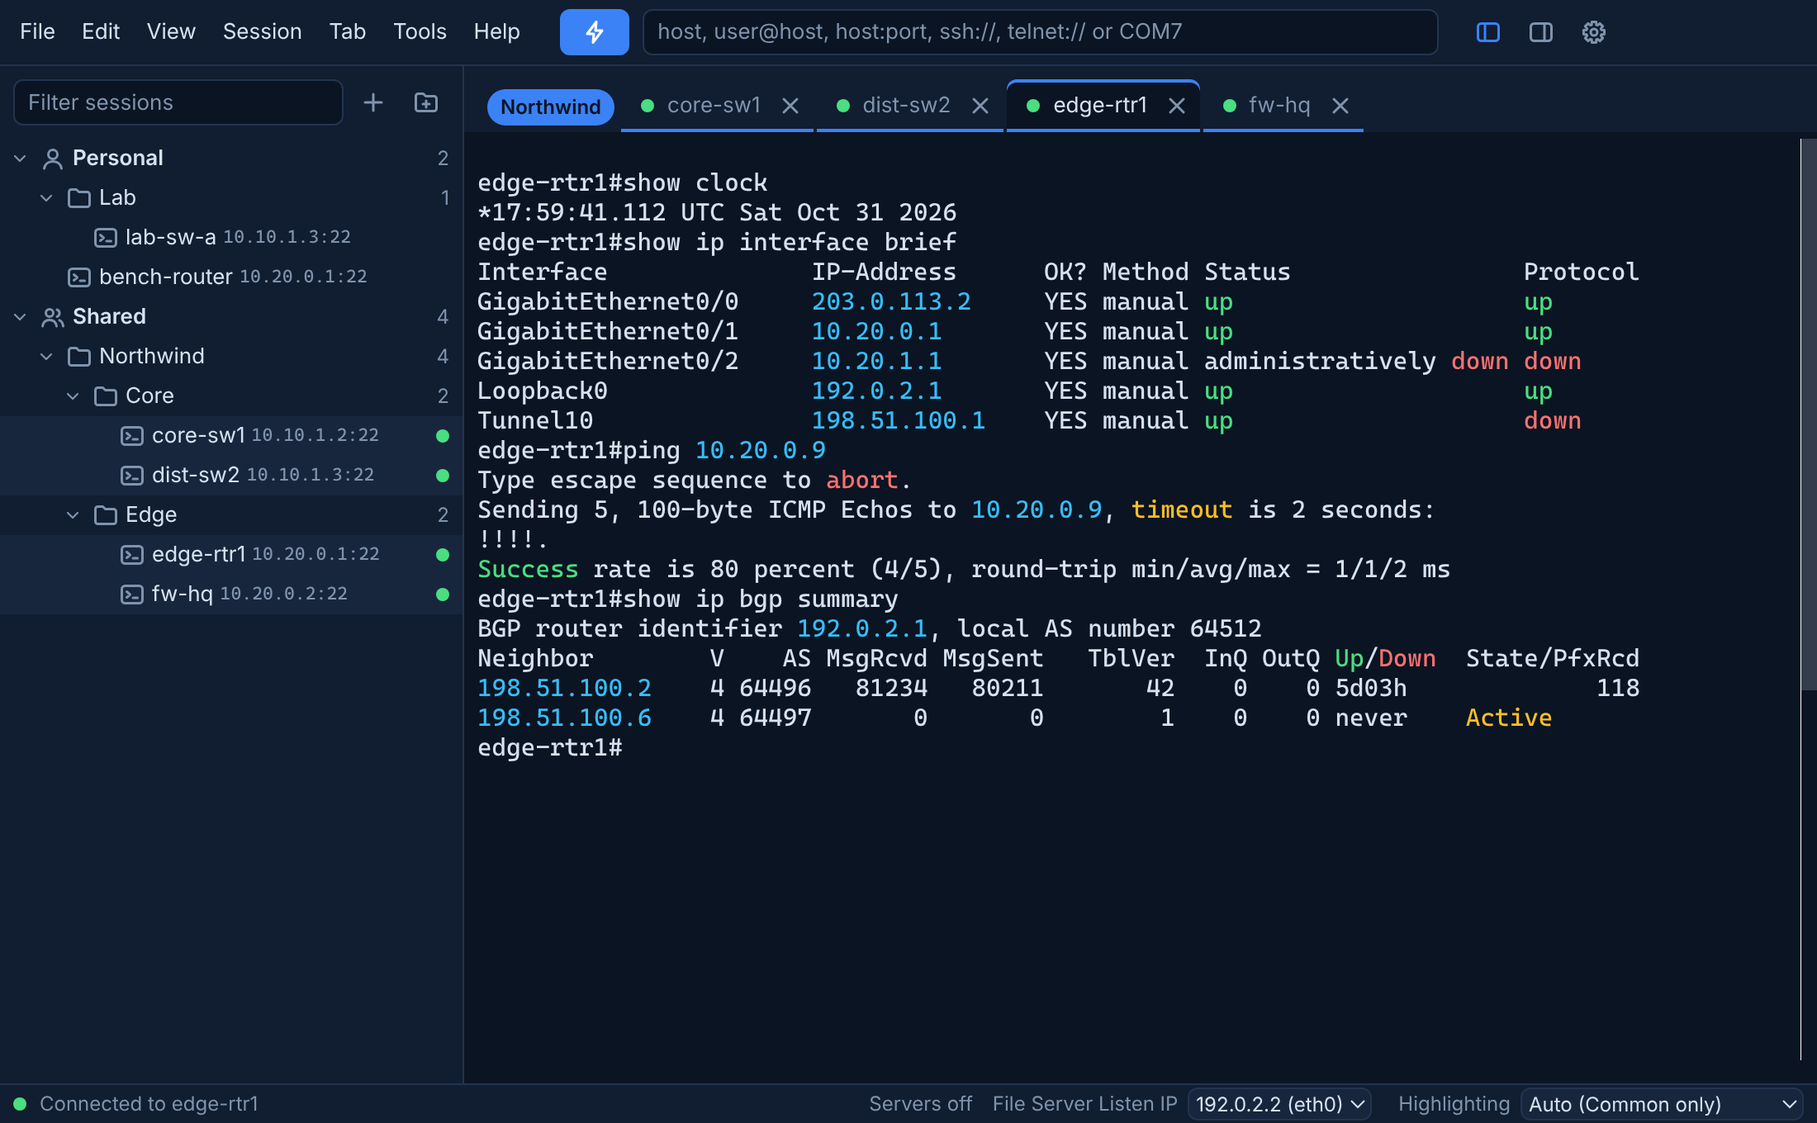
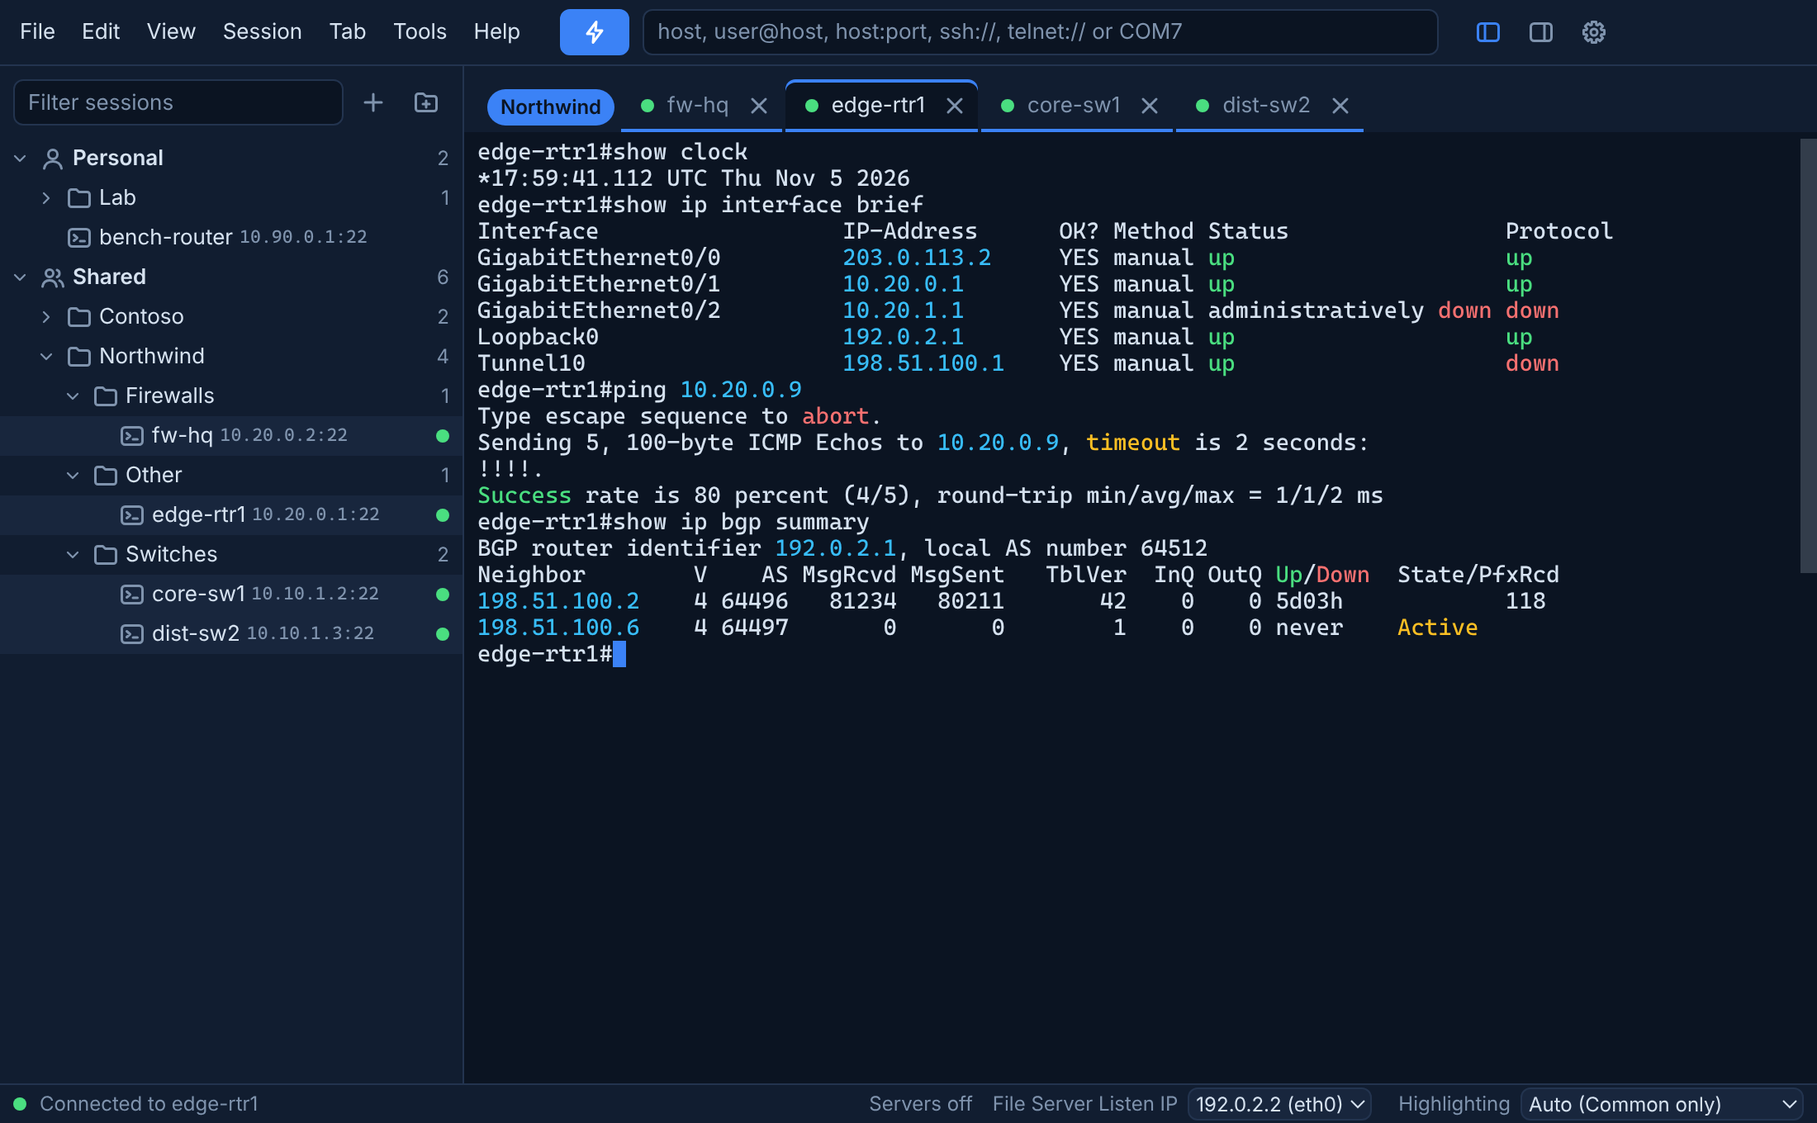
Refresh README and screenshots for split panes, jump host, Shared layout, duplicate checks, prompt-following highlighting and appearance options
Claude-Session: https://claude.ai/code/session_01JJwPdBJXe9Dvv6k2Fn5pU2

diff --git a/README.md b/README.md
@@ -1,18 +1,18 @@
 # ConnSmith
 
-Terminal client for network engineers on Windows 11 (64-bit). Tabbed SSH, Telnet and serial consoles, a shared session library, highlighted device output, command broadcast across tabs, and built-in TFTP, FTP and SFTP/SCP servers.
+Terminal client for network engineers on Windows 11 (64-bit). Tabbed SSH, Telnet and serial consoles, a shared session library, highlighted device output, split panes, a command window that sends to several tabs at once, and built-in TFTP, FTP and SFTP/SCP servers.
 
 <img src="docs/images/hero.png" alt="ConnSmith with four device tabs in a group, the session tree on the left and highlighted CLI output" width="900">
 
 This repository publishes the installers only. Download them from the [Releases page](https://github.com/CautiousCapsLock/connsmith-releases/releases/latest).
 
-**Status:** in testing. Features marked **(0.1.5)** are built on the development branch and arrive in the next release.
+**Status:** in testing. Features marked **(next release)** are in development builds and arrive in the next release. Everything else is in the [latest release](https://github.com/CautiousCapsLock/connsmith-releases/releases/latest).
 
 ## Contents
 
 - [Install](#install) and [Updates](#updates)
 - [Getting started](#getting-started)
-- Core features: [SSH](#ssh-modern-and-legacy-profiles), [Serial](#serial-console), [Session tree and Shared sessions](#session-tree-and-shared-sessions), [Tabs and tab groups](#tabs-and-tab-groups), [Command window](#command-window-015), [Highlight rules](#highlight-rules), [Find](#find), [File servers](#file-servers-tftp-ftp-and-sftpscp-015), [SecureCRT import](#securecrt-import), [SSH keys](#ssh-keys-including-putty-ppk)
+- Core features: [SSH](#ssh-modern-and-legacy-profiles), [Jump host](#jump-host-next-release), [Serial](#serial-console), [Session tree and Shared sessions](#session-tree-and-shared-sessions), [Tabs, tab groups and split panes](#tabs-tab-groups-and-split-panes), [Command window](#command-window), [Highlight rules](#highlight-rules), [Terminal appearance](#terminal-appearance), [Find](#find), [File servers](#file-servers-tftp-ftp-and-sftpscp), [SecureCRT import](#securecrt-import), [SSH keys](#ssh-keys-including-putty-ppk)
 
 ---
 
@@ -48,7 +48,7 @@ A welcome window asks for the folder that holds saved sessions (the Personal sto
 Two optional settings follow. Both can be changed later in **Settings**.
 
 - **App password** (Settings > Security). Required at every start, before any session loads. It protects passwords saved in sessions and makes them usable on other PCs that share the same app password. Without it, saved passwords are readable on the PC that saved them only.
-- **Windows Hello.** With an app password set, Windows Hello (fingerprint, face or PIN) can unlock ConnSmith instead of the typed password.
+- **Windows Hello.** With an app password set, **Settings > Security** can turn on unlock with Windows Hello (fingerprint, face or PIN) instead of the typed password. Hello is built into ConnSmith and starts no scripts. The setting is per PC, so a second PC needs the app password typed once before Hello is turned on there. Uninstalling ConnSmith switches Hello off, even if the settings are kept.
 
 ### Connect to a device
 
@@ -80,11 +80,23 @@ SSH-2 with password, keyboard-interactive and public key authentication. Each se
 - **Modern** (default): current algorithms only.
 - **Legacy**: adds `ssh-rsa`, CBC and 3DES ciphers, SHA-1 MACs and `diffie-hellman-group14-sha1`, which older switches require.
 
-When a Modern connection fails because the device offers only older algorithms, ConnSmith lists what the device offers and shows **Switch to Legacy and reconnect**. The button saves Legacy to the session and reconnects. Enter activates it.
+When a Modern connection fails because the device offers only older algorithms, ConnSmith lists what the device offers and shows a yellow **Switch to Legacy algorithms and reconnect** button. The button saves Legacy to the session and reconnects. Enter activates it. **What the device offers** expands the full list.
 
-<img src="docs/images/legacy-prompt.png" alt="The prompt: This device only offers diffie-hellman-group14-sha1 for key exchange, with a Switch to Legacy and reconnect button" width="900">
+<img src="docs/images/legacy-prompt.png" alt="The prompt: This device only offers diffie-hellman-group14-sha1 and diffie-hellman-group1-sha1 for key exchange, with a yellow Switch to Legacy algorithms and reconnect button" width="900">
 
-Also included: host key verification against a known-hosts file, keepalives, a **Reconnect** button after a dropped link, and the negotiated algorithms in the connection info panel (top right icon).
+Also included: host key verification against a known-hosts file, keepalives, a **Reconnect** button after a dropped link, and the negotiated algorithms in the connection info panel (top right icon). **(next release)** For a device whose host key is already saved, ConnSmith asks for that key type first, as OpenSSH does, so a device that has since gained a newer key type does not show a first-connection dialog.
+
+### Jump host (next release)
+
+**Edit session > Jump host** lists the saved SSH sessions. When one is chosen, ConnSmith logs in to it first, with its own saved password, key and settings, and opens the connection to the device through it. Use it for devices that are reachable only from a bastion or management host.
+
+<img src="docs/images/jump-host-edit.png" alt="Edit session with the Jump host drop-down set to bastion" width="520">
+
+- The host key and login questions of the jump host are titled **Jump host**. The connection info panel shows it on the **Via** line.
+- One hop only.
+- A Shared session can use only a Shared session as its jump host, and a session moves to Shared only once its jump host is there.
+
+<img src="docs/images/jump-host-info.png" alt="A connected tab with the connection info panel showing Via bastion" width="900">
 
 **Known limitation:** devices that offer only `diffie-hellman-group1-sha1` (for example older Cisco IOS releases) cannot connect. The tab reports this.
 
@@ -105,53 +117,114 @@ COM ports are scanned every 2 seconds. When a USB console adapter is plugged in,
 
 A single tree shows the Personal and Shared stores with their folders. The filter box searches name, host and folder. Sessions can be dragged between folders and between stores.
 
-<img src="docs/images/session-tree.png" alt="The session tree: Personal sessions, and Shared sessions grouped by client and category, with a green dot on each connected session" width="300">
+<img src="docs/images/session-tree.png" alt="The session tree: Personal sessions, and Shared sessions grouped by client, optional site and device type, with a green dot on each connected session" width="300">
 
-- **Status dots (0.1.5):** a saved session with an open tab shows a dot at the right of its row: green connected, amber connecting, red disconnected.
-- **Multi-connect:** Ctrl+click or Shift+click selects several sessions, and Enter opens each in its own tab. Host key and password prompts appear one after another.
-- **Shared store:** set the team folder in **Settings > Session stores**. Each user enters the same shared password once on their own PC. Shared sessions are organised by client and category.
-- **Move to Shared:** the right-click menu on a session or folder moves it to the Shared store after the share checks. A session that fails a check stays in Personal and the dialog gives the reason. **Session > Move many to Shared…** moves many sessions in one wizard.
+- **Status dots:** a saved session with an open tab shows a dot at the right of its row: green connected, amber connecting, red disconnected.
+- **Multi-connect:** Ctrl+click or Shift+click selects several sessions, and Enter opens each in its own tab. Host key and password prompts appear one after another. **(next release)** With several sessions selected, the right-click menu also offers **Move to Shared…** and **Delete N sessions…**. Delete lists the sessions and asks first.
+- **Collapse all (next release):** the right-click menu of every folder, and of the Personal and Shared rows, folds the tree. ConnSmith remembers which folders were open.
+- **Shared store:** set the team folder in **Settings > Session stores**. Each user enters the same shared password once on their own PC.
+- **Move to Shared:** the right-click menu on a session or folder moves it to the Shared store after the share checks. A session that fails a check stays in Personal and the dialog gives the reason. **Session > Move many to Shared…** moves many sessions in one wizard. **(next release)** The wizard's last step offers to delete the Personal folders the move left empty, with the tick box on.
 - **OneDrive:** the tree shows a warning when shared files are online-only placeholders. The folder must be set to **Always keep on this device** in File Explorer.
 
 <img src="docs/images/shared-store.png" alt="Settings, Session stores: the Personal and Shared folders and the Shared password" width="760">
 
-### Tabs and tab groups
+#### Shared folder layout (next release)
+
+Shared sessions follow one layout: **Client**, an optional **Site**, then a device type folder (**Firewalls**, **Switches**, **VoIP** or **Other**), then the sessions.
+
+- A client's right-click menu has **New site folder…** and **New device folder…**. A site's menu has **New device folder…** only. A client and each of its sites can hold the same device types.
+- **Move to Shared** asks for client, site and device type. The wizard guesses the site from a folder such as `Acme/London/Switches`.
+- Nothing is created ahead of time. Device type folders cannot be renamed.
+- Folders and sessions already in Shared that do not fit the layout are flagged with a warning and a **Review** button that lists them. Nothing is moved or hidden.
+- Deleting a Shared folder asks twice, because it removes the folder for everyone. The confirmation says how many sessions go with it.
+
+#### Duplicate checks (next release)
+
+The Shared store is edited by several people, so ConnSmith checks for the same thing being added twice. The checks ignore case, spaces and punctuation, so `Core SW1` and `core-sw1` match. A short host name and the same name with a domain, or one IPv6 address written two ways, count as the same device.
+
+- **Folders:** a new or renamed client or site folder that matches one beside it is refused. One that is only close (`Acme` and `Acme Ltd`, or a one-letter typo) asks once more, and the button becomes **Create anyway**.
+
+<img src="docs/images/create-anyway.png" alt="New site folder: a warning that Londen is close to London, with a Create anyway button" width="460">
+
+- **Sessions:** when a session being moved to Shared has the same device as one already there, the dialog lists the existing sessions with **Open** and **Edit** buttons, and the button becomes **Move anyway**. The wizard has a **Move anyway** tick box on each such session. A failed name or host check still blocks the move.
+
+<img src="docs/images/move-anyway.png" alt="Move to Shared: an Already in Shared notice listing two sessions with the same host, and a Move anyway button" width="560">
+
+- **Possible duplicates banner:** when duplicates are already in the store, for example because two people shared the same device at once, the tree shows **N possible duplicates in Shared** with a **Review** button. Nothing is changed automatically: delete or rename one from the tree, or leave both if both are wanted.
+
+<img src="docs/images/shared-duplicates.png" alt="The session tree with a banner at the bottom: 2 possible duplicates in Shared, and a Review link" width="460">
+
+<img src="docs/images/duplicates-review.png" alt="The Possible duplicates in Shared window listing two sessions with the same device and two folders with close names" width="640">
+
+- **Empty folders:** after the last session leaves a Shared device folder (deleted, or moved to Personal or another Shared folder), ConnSmith asks **Delete the empty folder…?**. A client or site folder that the removal would also empty is included. It never deletes on its own, so a colleague who is about to add to the folder can keep it.
+
+<img src="docs/images/delete-empty-folder.png" alt="A confirmation: Delete 2 empty folders, listing Shared, Fabrikam, Leeds, Switches and Shared, Fabrikam, Leeds" width="460">
+
+### Tabs, tab groups and split panes
 
 Each connection opens in a tab. Tabs reorder by drag. **Move tab to new window** detaches a tab together with its connection and scrollback. The tab menu also closes other tabs or the tabs to the right.
 
-**Tab groups (0.1.5)** keep the devices for one task together. **Connect as tab group…** in the tree's right-click menu opens the selected sessions as a named, coloured group, shown as a chip before its tabs. Selecting the chip folds the group. **Add to new group…** in a tab's menu groups tabs that are already open.
+**Tab groups** keep the devices for one task together. **Connect as tab group…** in the tree's right-click menu opens the selected sessions as a named, coloured group, shown as a chip before its tabs. Selecting the chip folds the group. **Add to new group…** in a tab's menu groups tabs that are already open.
 
 <img src="docs/images/tabs-groups.png" alt="Four tabs under a blue Northwind group chip" width="900">
 
 <img src="docs/images/tab-group-dialog.png" alt="The Connect as tab group window with a group name and colour choices" width="420">
 
-### Command window (0.1.5)
+**Split panes (next release).** **Split pane right** and **Split pane down**, in a tab's right-click menu and in the Tab menu, open a second connection to the same place beside or under the first. Each pane has its own connection and asks for its own login. Drag the bar between the panes to resize them.
+
+- **Close pane** closes one pane. **Move pane to its own tab** undoes the split. Closing the tab closes both panes.
+- A tab holds two panes at most. A serial port cannot be split.
+- The command window's **Visible panes** option sends to both panes.
+
+<img src="docs/images/split-panes.png" alt="One tab split into two panes, each showing different output, with the command window set to Visible panes (2)" width="900">
+
+### Command window
 
 **View > Command window** opens an input box at the bottom of the window. Its target is one of:
 
-- the visible tab,
+- **Visible panes:** the visible tab, or both panes of a split tab **(next release)**,
 - the tab group of the visible tab,
 - all active sessions.
 
-The radio buttons name the target and the number of tabs, for example `Tab group: Northwind (4)`. Enter sends. Shift+Enter adds a line. Up and Down recall earlier commands. **Wait for the prompt after each line** holds each line until the device prompt returns. Disconnected tabs are skipped and the window reports how many.
+The radio buttons name the target and the number of tabs, for example `Tab group: Northwind (4)` or `Visible panes (2)`. Enter sends. Shift+Enter adds a line. Up and Down recall earlier commands. **Wait for the prompt after each line** holds each line until the device prompt returns. Disconnected tabs are skipped and the window reports how many.
 
 <img src="docs/images/command-window.png" alt="The command window sending show clock to the Northwind tab group" width="900">
 
 ### Highlight rules
 
-Device output is coloured as it arrives. Rules cover IP addresses, interface up and down states, warnings and errors, ping loss, BGP and OSPF neighbour states, `[confirm]` prompts, and `reload` and `erase`. Rule sets exist for Cisco, Comware, Aruba and FortiOS, plus a common set that always applies.
+Device output is coloured as it arrives. Rules cover IP addresses, interface up and down states, warnings and errors, ping loss, BGP and OSPF neighbour states, `[confirm]` prompts, and `reload` and `erase`. Rule sets exist for Cisco, Comware, Aruba, Junos and FortiOS, plus a common set that always applies.
 
 The rule set is selected from the device's output. The **Highlighting** menu in the status bar shows the active set and switches it.
 
+**Follows the prompt (next release).** On **Auto**, the rule set follows the prompt after login, not only at login. A session that logs in to a Linux host and hops from there to a FortiGate (or a Junos or Comware device) switches to that device's rules once its prompt appears, and goes back to the common set when a shell prompt returns. A set picked by hand from the Highlighting menu never changes.
+
+<img src="docs/images/highlight-follows-prompt.png" alt="A session that logged in to a bastion and hopped to a FortiGate, with the status bar showing Highlighting: Auto (Fortinet FortiOS)" width="900">
+
 <img src="docs/images/highlight-rules.png" alt="Router output with addresses in blue, up in green, down in red and an Active BGP neighbour in amber" width="900">
+
+### Terminal appearance
+
+Colour scheme, font, font size, bold and cursor style are set per session in **Edit session**, and for new sessions in **Session > Default session…**. A session that does not set a value follows the Default session.
+
+- **Colour schemes:** ConnSmith Dark Blue, Light, Solarized Dark, Classic (white on black), Graphite Orange and Matrix. The highlight colours follow the scheme.
+- **Font:** a drop-down of Cascadia Mono, Cascadia Code, Courier, Courier New, Lucida Console and MS Gothic, each shown in its own face. Fonts that are not installed on the PC fall back to Consolas. Cascadia Mono is bundled with ConnSmith.
+- **Font size:** the even sizes from 8 to 24. The default is 14.
+- **Bold:** a tick box that sets the bold weight for all text.
+- The built-in choice in each drop-down is marked **(Default)**.
+
+<img src="docs/images/default-session.png" alt="The Default session window with Colour scheme set to Graphite Orange, and the Font, Font size and Bold options" width="560">
+
+Graphite Orange (orange on grey) and Matrix (green on black):
+
+<img src="docs/images/colour-schemes.png" alt="The same router output in the Graphite Orange scheme and in the Matrix scheme" width="900">
 
 ### Find
 
-**Ctrl+Shift+F** searches the scrollback of the current tab, with case-sensitive and regular expression options. **(0.1.5)** Every match is also marked in a strip beside the scrollbar, showing where matches fall in a long output.
+**Ctrl+Shift+F** searches the scrollback of the current tab, with case-sensitive and regular expression options. Every match is also marked in a strip beside the scrollbar, showing where matches fall in a long output.
 
 <img src="docs/images/find.png" alt="The Find box with matches highlighted in the output and marked beside the scrollbar" width="900">
 
-### File servers: TFTP, FTP and SFTP/SCP (0.1.5)
+### File servers: TFTP, FTP and SFTP/SCP
 
 **Tools > File servers** opens a panel with three servers that serve one shared folder (the Downloads folder by default, changed in **Settings > File servers**).
 
@@ -171,7 +244,7 @@ The rule set is selected from the device's output. The **Highlighting** menu in 
 
 ### SecureCRT import
 
-**File > Import SecureCRT sessions…** reads the SecureCRT sessions folder and shows its folders and SSH and Telnet sessions as a tree of tick boxes. The ticked sessions are added to the Personal store with the same folder structure. SecureCRT's own files are not modified, and sessions that already exist in ConnSmith are not changed.
+**File > Import SecureCRT sessions…** reads the SecureCRT sessions folder and shows its folders and SSH and Telnet sessions as a tree of tick boxes. **Tick all**, **Tick none**, **Collapse all** and **Expand all** act on the whole tree. The ticked sessions are added to the Personal store with the same folder structure. SecureCRT's own files are not modified, and sessions that already exist in ConnSmith are not changed.
 
 <img src="docs/images/securecrt-import.png" alt="The Import SecureCRT sessions window with a tree of folders and sessions with tick boxes" width="460">
 
@@ -179,7 +252,7 @@ The final page offers **Move to Shared…**, which opens the wizard that assigns
 
 ### SSH keys, including PuTTY .ppk
 
-**Settings > SSH keys > Add key…** accepts OpenSSH and PEM private keys and PuTTY `.ppk` files: version 2 RSA, and version 3 (PuTTY 0.75 and later) RSA, ECDSA and ed25519 **(0.1.5)**, with or without a passphrase. No conversion in PuTTYgen is needed.
+**Settings > SSH keys > Add key…** accepts OpenSSH and PEM private keys and PuTTY `.ppk` files: version 2 RSA, and version 3 (PuTTY 0.75 and later) RSA, ECDSA and ed25519, with or without a passphrase. No conversion in PuTTYgen is needed.
 
 Keys stay in their original files and are never copied into sessions or the Shared store. A session selects a key by name in **Edit session**. The key is tried first, and the password prompt follows if the device refuses it.
 
@@ -191,7 +264,7 @@ Keys stay in their original files and are never copied into sessions or the Shar
 
 - **Session logging** to a file with a templated path and optional timestamps, started from the tab menu or automatically per session.
 - **Paste protection:** pastes are shown for confirmation first and can be sent line by line with per-session line and character delays.
-- **Hostname check:** when the device prompt differs from the saved session name, ConnSmith offers to update the session.
+- **Hostname check:** when the device prompt differs from the saved session name, ConnSmith offers to update the session. A switch in **Settings > Terminal** turns the offer off.
 - **Command palette** for all menu actions.
 
 ## Reporting problems
